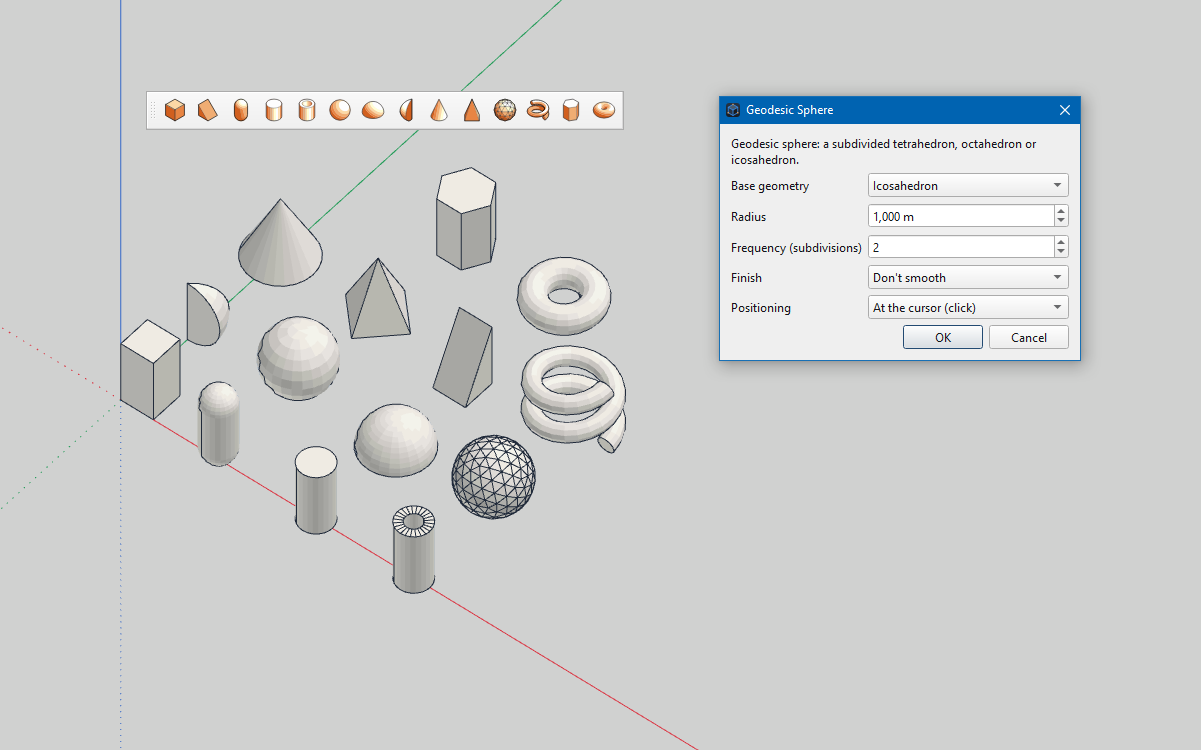
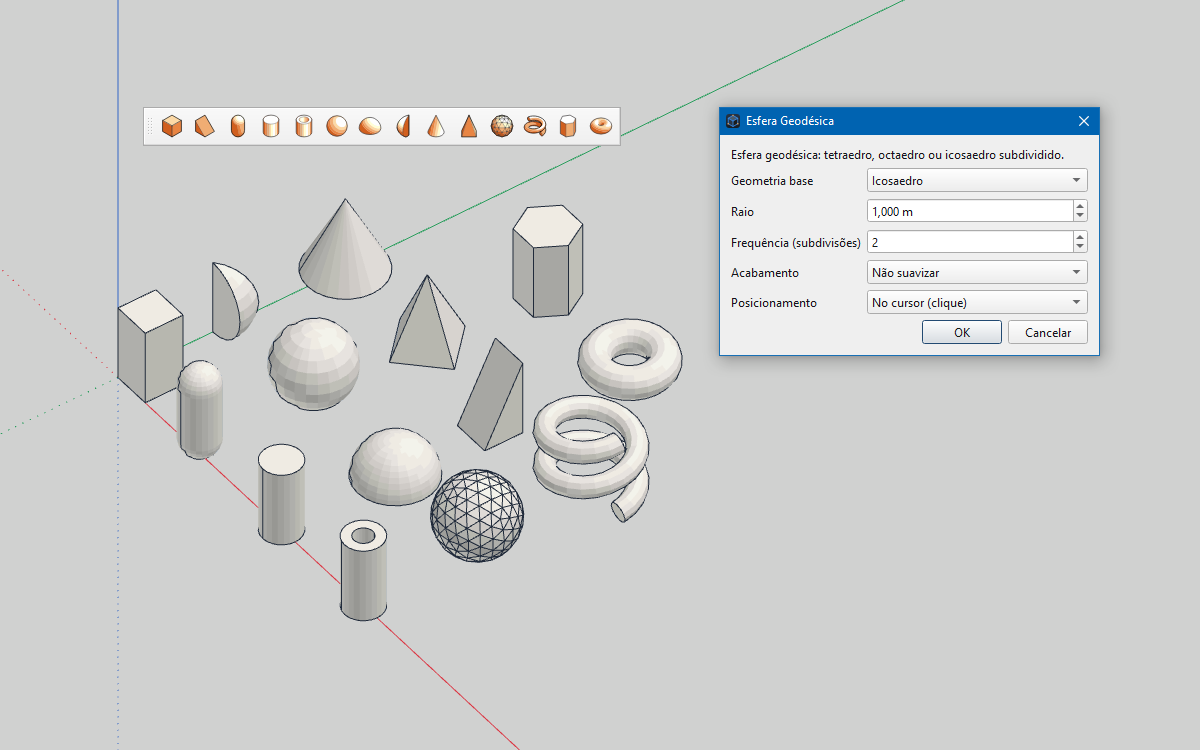
docs: point the catalogue screenshot to igz-solids.png and refresh the sizes

Changed region(s): [[0.0925, 0.0, 0.925, 0.828]]

diff --git a/PUBLISHING.md b/PUBLISHING.md
@@ -23,9 +23,9 @@ esta extensão no catálogo <https://github.com/ingelibre/ingetrazo-extensions>
 | Script da Release | `packaging/publish_release.ps1` | Cria/reaproveita a Release do GitHub, envia o asset e confere o `sha256` (`-DryRun` só verifica). |
 | Notas da Release | `packaging/release_notes/v1.0.0.md` | Texto publicado na Release `v1.0.0` (é o `-Notes` padrão do script). |
[1 lines of base64/hex data omitted]
-| Release publicada | <https://github.com/em-rezende/Ingetrazo-igz-solids/releases/tag/v1.0.0> | `igz_solids 1.0.0` (id `409135616`), publicada em 2026-10-10; asset `igz_solids.zip` com 138 148 bytes e o sha256 acima (conferido pelo `digest` da API). |
+| Release publicada | <https://github.com/em-rezende/Ingetrazo-igz-solids/releases/tag/v1.0.0> | `igz_solids 1.0.0` (id `409135616`), publicada em 2026-10-10; asset `igz_solids.zip` com 138 030 bytes e o sha256 acima (conferido pelo `digest` da API). |
 | Ficha do catálogo | `ingetrazo-extensions-submission/extensions/igz_solids.toml` | Copiar para `extensions/igz_solids.toml` no repositório do catálogo. |
-| Captura de tela | `ingetrazo-extensions-submission/screenshots/igz_solids.png` | Copiar para `screenshots/igz_solids.png` no repositório do catálogo (1201×750, ~68 KB). |
+| Captura de tela | `ingetrazo-extensions-submission/screenshots/igz-solids.png` | Copiar para `screenshots/igz-solids.png` no repositório do catálogo (1200×750, ~96 KB). |
 
 O `.zip` contém exatamente uma pasta de topo:
 
@@ -80,8 +80,8 @@ a tabela de conformidade, regra a regra, está em
 5. Em <https://github.com/ingelibre/ingetrazo-extensions>, copie
    `ingetrazo-extensions-submission/extensions/igz_solids.toml` para
    `extensions/igz_solids.toml` e
-   `ingetrazo-extensions-submission/screenshots/igz_solids.png` para
-   `screenshots/igz_solids.png` (no browser: *Add file ▸ Create new file* e
+   `ingetrazo-extensions-submission/screenshots/igz-solids.png` para
+   `screenshots/igz-solids.png` (no browser: *Add file ▸ Create new file* e
    *Add file ▸ Upload files*), e abra a pull request.
 6. Preencha o checklist do template. A extensão não usa rede, não executa
    programas externos e não apaga arquivos.
@@ -99,7 +99,7 @@ asset enviado.
   `productivity`, `rendering`, `analysis`, `import-export`, `terrain`,
   `education`, `other`. Esta ficha usa `drawing`, `structures` e
   `productivity`.
-- **Captura de tela**: 1201×750 px (~68 KB). A sugestão do catálogo é
+- **Captura de tela**: 1200×750 px (~96 KB). A sugestão do catálogo é
   ~1200×750 e o limite é 600 KB, então há folga.
 - **Uma ficha por extensão**: se preferir separar em várias entradas (por
   família de sólidos), cada uma precisaria do seu próprio arquivo baixável
@@ -139,8 +139,8 @@ To publish, once you authorise it:
 5. In <https://github.com/ingelibre/ingetrazo-extensions>, copy
    `ingetrazo-extensions-submission/extensions/igz_solids.toml` to
    `extensions/igz_solids.toml` and
-   `ingetrazo-extensions-submission/screenshots/igz_solids.png` to
-   `screenshots/igz_solids.png`, then **Create pull request**.
+   `ingetrazo-extensions-submission/screenshots/igz-solids.png` to
+   `screenshots/igz-solids.png`, then **Create pull request**.
 6. Fill in the PR template checklist and answer the prompts (the extension uses
    no network by itself, runs no external programs and deletes no files).
 

diff --git a/ingetrazo-extensions-submission/README.md b/ingetrazo-extensions-submission/README.md
@@ -13,11 +13,11 @@ Copy these two things into the catalog repository
 | From here | To the catalog repository |
 |---|---|
 | `extensions/igz_solids.toml` | `extensions/igz_solids.toml` |
-| `screenshots/igz_solids.png` | `screenshots/igz_solids.png` |
+| `screenshots/igz-solids.png` | `screenshots/igz-solids.png` |
 
 The screenshot shows the **Solids** toolbar, the Geodesic Sphere dialog and
-some solids built with them (1201×750 px, ~68 KB) and must keep the file name
-`igz_solids.png` — that is the name in the entry's `screenshot` field.
+some solids built with them (1200×750 px, ~96 KB) and must keep the file name
+`igz-solids.png` — that is the name in the entry's `screenshot` field.
 
 Then open the pull request (browser: *Add file ▸ Create new file* and
 *Add file ▸ Upload files* → **Propose changes** → **Create pull request**)
@@ -26,7 +26,7 @@ and fill in the template checklist.
 ## Before you submit
 
 - The `download` URL points at the **v1.0.0** GitHub Release asset
-  `igz_solids.zip`, which is **already published** (138 148 bytes, verified).
+  `igz_solids.zip`, which is **already published** (138 030 bytes, verified).
 - The `sha256` in the entry must match that asset byte-for-byte:
[1 lines of base64/hex data omitted]
   Rebuild with `packaging/build_extension.ps1` (or `packaging/build_extension.py`)
